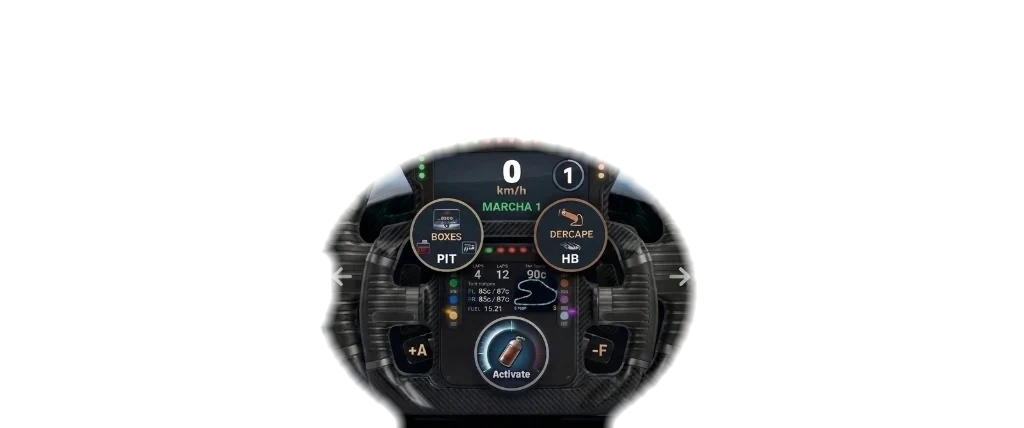
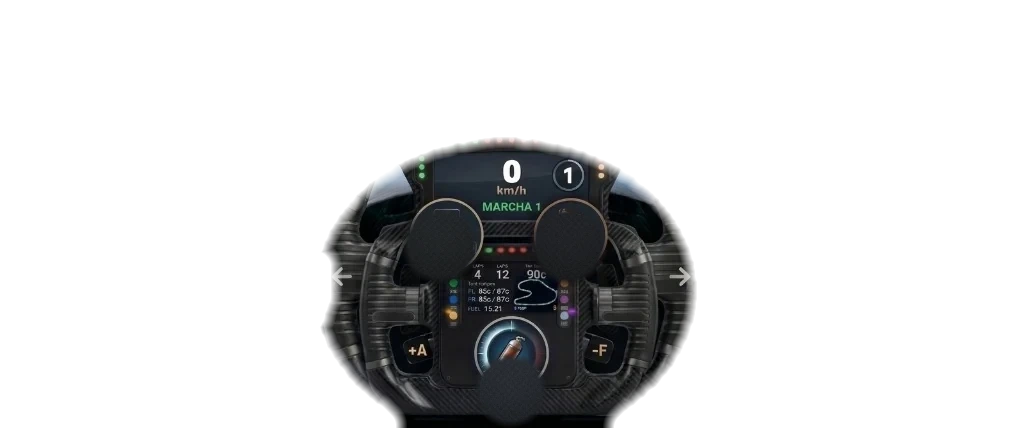
Build 816: PIT/HB/NITRO movidos a la esquina derecha
Los tres botones salen del volante a la columna derecha bajo TOP;
los iconos horneados del volante quedan borrados (pods vacíos).

Generated with [Devin](https://devin.ai)

diff --git a/index.html b/index.html
@@ -348,6 +348,14 @@
   /* Vista cenital: bajo el botón de 1P */
   #cenBtn { right: 12px; top: 320px; width: 52px; }
   #cenBtn.on { background: rgba(120,255,160,0.38); border-color: #7dffa8; }
+  /* Acciones de carrera: PIT · HB · NITRO en la esquina derecha, bajo TOP */
+  #pitBtn   { right: 12px; top: 378px; width: 52px; height: 52px; }
+  #hbBtn    { right: 12px; top: 442px; width: 52px; height: 52px; }
+  #nitroBtn { right: 12px; top: 506px; width: 52px; height: 52px; }
+  #pitBtn.on  { background: rgba(255,200,80,0.38); border-color: #ffd060; }
+  #hbBtn.on   { background: rgba(255,120,60,0.38); border-color: #ff9060; }
+  #nitroBtn.on{ background: rgba(255,60,60,0.4); border-color: #ff7060;
+    box-shadow: 0 0 16px rgba(255,80,60,0.6); }
   /* Ruedas delanteras en 1ª persona: asoman por las esquinas del cockpit
      como en una onboard real y basculan con la dirección */
   .fpvWh { display: none; position: fixed; bottom: -6%; width: 13%; z-index: 7;
@@ -404,11 +412,9 @@
   body.lefty #stPad { left: auto; right: 14px; }
   body.lefty #gasBtn { right: auto; left: 14px; }
   body.lefty #brkBtn { right: auto; left: 121px; }
-  body.lefty #nitroBtn { right: auto; left: 16px; top: 82%; }
-  body.lefty #pitBtn { left: calc(50% - 32px); }
+  body.lefty #pitBtn, body.lefty #hbBtn, body.lefty #nitroBtn { right: auto; left: 12px; }
   body.lefty #boxexBtn { left: 16px; top: 58%; }
   body.lefty #lightsBtn { right: auto; left: 16px; }
-  body.lefty #hbBtn { left: calc(42% - 32px); }
   /* ---------- Tres zonas de la pantalla de juego ---------- */
   /* Zona superior: ventana de telemetría — chips, crono, minimapa */
   #zoneTop { position: absolute; top: 0; left: 0; right: 0; height: 78px; pointer-events: none;
@@ -2642,14 +2648,11 @@
     </div>
     <div class="tbtn" id="stPad"><span class="stAr u">▲</span><span class="stAr r">▶</span><span class="stAr d">▼</span><span class="stAr l">◀</span><span class="stKnob" id="stKnob"></span><span class="stA" id="stA_L"></span><span class="stA" id="stA_R"></span></div>
     <div id="wheelUI" style="position:absolute;inset:0;transform-origin:50% 50%;pointer-events:none">
-      <div class="tbtn hl" id="pitBtn"><img class="tIc" src="ctl_boxes.webp" alt=""><span class="tLb">PIT</span></div>
-      <div class="tbtn hl" id="hbBtn"><img class="tIc" src="ctl_derrape.webp" alt=""><span class="tLb">HB</span></div>
       <div class="tbtn" id="gasBtn"><img class="tIc" src="ctl_acelerar.webp" alt=""><span class="tLb">GAS</span></div>
       <div class="tbtn" id="brkBtn"><img class="tIc" src="ctl_frenar.webp" alt=""><span class="tLb">FRENO</span></div>
     </div>
-    <!-- BOXES, NITRO y faros van sobre los pods fijos: no giran con el volante -->
+    <!-- BOXES y faros van sobre los pods fijos: no giran con el volante -->
     <div class="tbtn" id="boxexBtn"><img class="tIc" src="ctl_boxes.webp" alt=""><span class="tLb">BOXES</span></div>
-    <div class="tbtn hl" id="nitroBtn"><img class="tIc" src="ctl_nitro.webp" alt=""><span class="tLb">NITRO</span></div>
     <div class="tbtn" id="lightsBtn"><svg class="ic" style="margin:0"><use href="#i-light"/></svg></div>
     <div id="speedBox"><div id="speedNum">0<small> km/h</small></div><div id="gearNum">MARCHA 1</div><div id="rpmWrap"><div id="rpmBar"></div></div></div>
     <div id="gearBig"></div>
@@ -2674,6 +2677,12 @@
 <div class="zbtn" id="droneBtn"><span class="zLb" style="font-size:11px;font-weight:900;letter-spacing:.5px">DRON</span></div>
 <div class="zbtn" id="fpvBtn" style="display:none"><span class="zLb" style="font-size:12px;font-weight:900;letter-spacing:.5px">1P</span></div>
 <div class="zbtn" id="cenBtn" style="display:none"><span class="zLb" style="font-size:10px;font-weight:900;letter-spacing:.5px">TOP</span></div>
+<!-- Acciones de carrera en la esquina derecha, bajo TOP -->
+<div id="actBtns" style="display:none">
+  <div class="zbtn" id="pitBtn"><img class="zIc" src="ctl_boxes.webp" alt=""><span class="tLb">PIT</span></div>
+  <div class="zbtn" id="hbBtn"><img class="zIc" src="ctl_derrape.webp" alt=""><span class="tLb">HB</span></div>
+  <div class="zbtn" id="nitroBtn"><img class="zIc" src="ctl_nitro.webp" alt=""><span class="tLb">NITRO</span></div>
+</div>
 <div class="dbtn" id="drUpBtn">▲</div>
 <div class="dbtn" id="drDnBtn">▼</div>
 <div id="droneHud"></div>
@@ -10606,7 +10615,7 @@ let pudT = 0, ripT = 0, pudSld = 0;                    // relojes de charcos, on
 const _els = {};
 const el = id => _els[id] || (_els[id] = document.getElementById(id));
 // Versión del build: +1 por cada cambio entregado
-const BUILD_NO = 815;
+const BUILD_NO = 816;
 el('verNum').textContent = 'Ver.1-' + String(BUILD_NO).padStart(4, '0');
 // Icono SVG premium: <svg class="ic"><use href="#i-..."/></svg>
 const ic = (n, cls) => `<svg class="ic${cls ? ' ' + cls : ''}" viewBox="0 0 24 24"><use href="#i-${n}"/></svg>`;
@@ -11647,6 +11656,7 @@ function exitToMenu() {
   document.getElementById('droneBtn').style.display = 'none';
   document.getElementById('fpvBtn').style.display = 'none';
   document.getElementById('cenBtn').style.display = 'none';
+  document.getElementById('actBtns').style.display = 'none';
   document.getElementById('hud').style.display = 'none';
   document.getElementById('speedBox').style.display = 'none';
   for (const id of TOUCH_IDS) document.getElementById(id).style.display = 'none';
@@ -13268,6 +13278,7 @@ function setDrone(on) {
     hud.style.display = 'block';
     if (OPTS.touchUi) { el('drUpBtn').style.display = 'flex'; el('drDnBtn').style.display = 'flex'; }
     el('wheelUI').style.display = 'none';            // pedales muertos: la IA lleva el coche
+    el('actBtns').style.display = 'none';
     showToast('🛸 ' + T('droneOn')); buzz(40);
   } else {
     if (drone) drone.grp.visible = false;
@@ -13275,6 +13286,7 @@ function setDrone(on) {
     hud.style.display = 'none';
     el('drUpBtn').style.display = 'none'; el('drDnBtn').style.display = 'none';
     el('wheelUI').style.display = '';
+    el('actBtns').style.display = 'block';
   }
 }
 // Colisión del dron con el escenario: los obstáculos son círculos 2D — se
@@ -14978,7 +14990,6 @@ function startStage(n, seed, mp, mode) {
   document.getElementById('tireChip')._w = -1;
   document.getElementById('koChip').style.display = koMode ? 'block' : 'none';
   document.getElementById('koChip')._t = -1;
-  document.getElementById('nitroBtn').style.display = (!demoMode && OPTS.touchUi) ? 'flex' : 'none';
   // MODO DRAG: arriba solo el marcador (vsChip); abajo solo GAS y FRENO
   document.getElementById('hudTop').style.display = dragMode ? 'none' : '';
   document.getElementById('hud').classList.toggle('drag', !!dragMode);
@@ -14991,11 +15002,13 @@ function startStage(n, seed, mp, mode) {
         (id === 'gasBtn' || id === 'shiftBtn' ||
          (!p2Mode && id === 'brkBtn') ||
          (p2Mode && id === 'gas2Btn'))) ? 'flex' : 'none';
+    el('actBtns').style.display = 'none';
   }
   playing = true;
   document.getElementById('droneBtn').style.display = droneOk() ? 'flex' : 'none';
   document.getElementById('fpvBtn').style.display = 'flex';
   document.getElementById('cenBtn').style.display = 'flex';
+  document.getElementById('actBtns').style.display = 'block';
   // Ningún control del menú/HUD conserva el foco: Enter/Espacio lo re-dispararían
   if (document.activeElement && document.activeElement.blur) document.activeElement.blur();
   // Semáforo F1: 5 luces se encienden en serie y al apagarse → ¡GO!

diff --git a/sw.js b/sw.js
@@ -1,5 +1,5 @@
 // Service worker: actualiza primero por red y guarda copia para offline (PWA)
-const CACHE = 'scgp-v380';
+const CACHE = 'scgp-v381';
 const ASSETS = [
   './', 'index.html', 'circuitos.js', 'fondo.jpg', 'fondo2.jpg', 'portada.jpg',
   'fondo_pw.png', 'fondo_card.jpg', 'fondo_manual.jpg', 'f1.png', 'f1sel.png', 'f1_r26.png', 'f1_scarlet.png', 'f1_verde.png', 'f1_amarillo.png', 'f1_negro.png', 'f1_rosa.png', 'f1_naranja.png', 'volante.webp', 'volante_giro.webp', 'volante_fijo.webp', 'cockpit_car.webp', 'stick_dpad.webp', 'fpv_tire.webp', 'logo_gp.webp', 'trofeo.webp', 'logo_shape.js', 'RADIO.mp3', 'three.min.js', 'postprocessing.min.js', 'peerjs.min.js',
